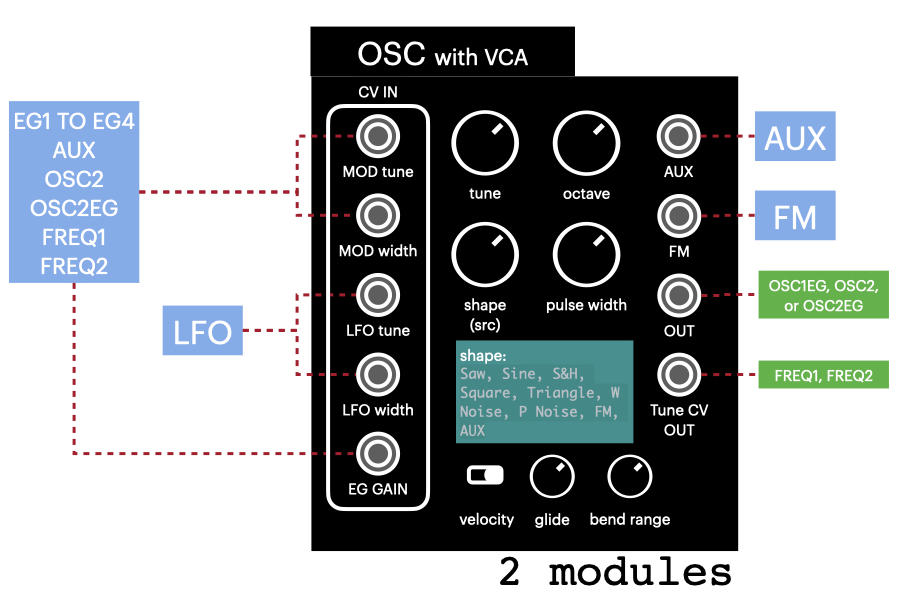
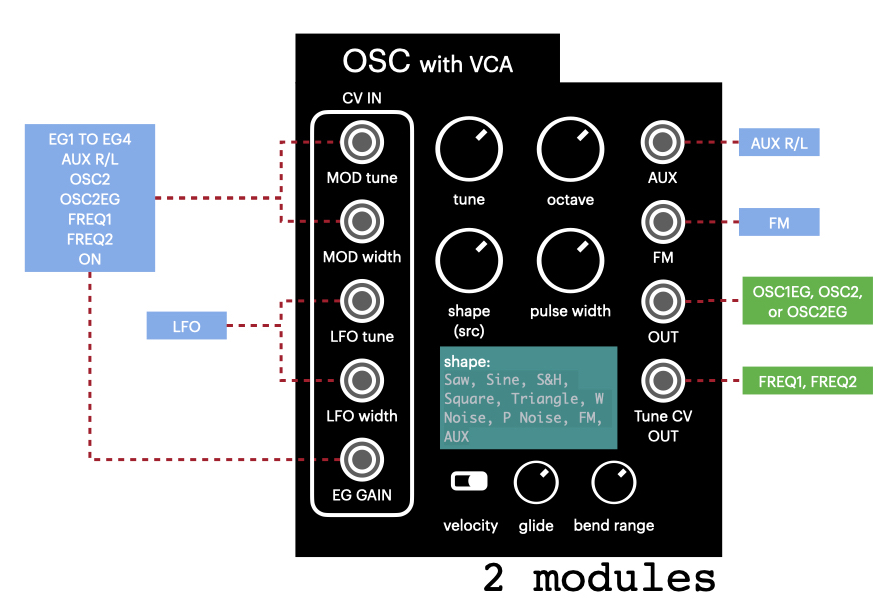
Clipping added

diff --git a/README.md b/README.md
@@ -7,22 +7,27 @@ Qun-synthesizer is an analog modeling synthesizer engine for ESP32 Lyrat, worked
 - Connectivity: Standard MIDI(TRS A type), BLE MIDI, UART MIDI(Supports MAC OS X and Windows through my SerialMIDI https://github.com/raspy135/serialmidi .
 
 * ESP32 Lyrat
-  * Originally designed for smart speaker.
+  * Originally designed for smart speaker. Qun synthesizer uses it to archive affordable pricing.
 
-* Analog Modeling engine
-  * The analog modeling engine is **made from scratch**.
+* **Analog Modeling engine**
+  * The analog modeling engine is **an original, made from scratch**. It uses advanced argorithms for great organic sound. The engine is not a copy of one of classic synths, it is designed to make a modern sound.
+  * It utilizes every single clock of ESP32's CPU power.
+  * Ultra low latency around  < 1ms. (Sound latency. Total latency varies by connecting method.) The low latency can be archived because it does only sound processing, it doesn't need extra buffer for unexpected CPU use like PC.
   * All analog modeling engine parameters can be configured through MIDI. 
-  * 2 Oscillators, it can be used as dual tone. 
-  * **Flexible** MOD (CV) routing. The signal routing is very flexible, close to modular synthesizer experience. You can route signals as normal, or totally radical.
-  * AUX input can be used for external audio signal, or **External CV input**.
+  * Clean 2 Oscillators, it can be used as dual tone. 
+  * The synth can be stacked to archive **Polyphonic** setup. 
+  * **Ultra Flexible MOD (CV) routing**. The signal routing is very flexible, close to modular synthesizer experience. You can route signals as normal, or totally radical.
+  * 1 (2 channels with changing the Lyrat circuit) AUX(R/L) input can be used for external audio signal, or **External CV inputs**
   * 4 Envelove Generators
   * FM (4 Operators x 2)
   * 1 LFO, rate can be controlled by MIDI notes
   * 1 Organic sounding VCF
     * 2/4 Poles, Low-pass, Band-pass, High-pass, Notch)
+    * **Organic Linear and classic Non-linear**
     * Keysync
   * 1 Effect (Delay, Chorus, Flanger)
   * MIDI clock sync
+  * **Advanced 3 Clipping alrorithms** gives an organic clipping sound
 * Player / Sequencer
   * Player (Piano mode)
   * Random mind inspiring 8 step sequencer will generate beats for you
@@ -38,7 +43,7 @@ Qun-synthesizer is an analog modeling synthesizer engine for ESP32 Lyrat, worked
 
 ### CONNECTIONS
 
-* Power : Use good quality USB power supply. Connect the USB cable to `POWER` labeled USB port.
+* Power : Use a good quality USB power supply. Connect the USB cable to `POWER` labeled USB port.
 * BLE MIDI : IOS or Mac OS X are supported. Windows are NOT supported. BLE MIDI has 15 to 20ms latency in general, it's limitation of BLE spec. For lower latency, use MIDI or UART MIDI.
 * MIDI : Use **TRS A** MIDI adapter to connect MIDI cables. TRS A type adapter is the same as KORG, AKAI and MAKE NOISE's adapter.
 * UART MIDI: You can use UART MIDI instead of traditional MIDI interface. Connect Lyrat's `UART` labeled USB to your computer. You may need to install UART driver(https://www.silabs.com/products/development-tools/software/usb-to-uart-bridge-vcp-drivers)
@@ -186,14 +191,14 @@ OSC has many switches to change its behavior.
 ENV Sel
 
 	Selects Envelope(VCA) for the oscillator.
-	`EG1, EG2, EG3, EG4, AUX, OSC2, OSC2EG, FRQ1, FRQ2`
+	`EG1, EG2, EG3, EG4, AUX, OSC2, OSC2EG, FRQ1, FRQ2, ON`
 WIDE TUNE
 
 	When it is ON,you can tune wider range by OSC’s tune parameter.
 MOD SEL
 
 	Select Mod signal source. It is connected to OSC's tune or width.
-	`EG1, EG2, EG3, EG4, AUX, OSC2, OSC2EG, FRQ1, FRQ2`
+	`EG1, EG2, EG3, EG4, AUX, OSC2, OSC2EG, FRQ1, FRQ2, ON`
 
 ENV INV SW
 
@@ -245,7 +250,7 @@ LFO MOD SEL
 	`EG1, EG2, EG3, EG4, AUX, OSC2, OSC2EG, FRQ1, FRQ2`
 
 ### PRM:VCF
-The synth has one filter.
+The synth has one filter. LPF / BPF/ HPF / Notch can be selected. Also it has 4/2 poles switch, and linear and non-linear switch. Linear gives organic resonance, Non-linear gives more character.
 
 ![diagram_vcf](manual_images/diagram_vcf.jpg)
 
@@ -279,19 +284,20 @@ OSC1 BYPASS
 
 VCF KEYSYNC
 
-	When it is not zero, VCF’s cutoff will follow s the playing note.  Higher value is more sensitive.
+	When it is not zero, VCF’s cutoff will follows the playing note.  Higher value is more sensitive.
 	Great with Mono, but not working well with Duo tone because it has only one VCF.
 
 ### PRM:KEY/OTHER
 Configures other parameters.
 
-VCF 4/2 POLE SW
+VCF 4/2 POLE / NoLinear
 
-	Change filter's number of poles. 2 poles(12dB/Oct) when it is ON. 4 poles(24dB/Oct) when it is OFF.
+	Change filter's number of poles, and selects linear or non-linear. 2 Poles is -12db/oct, 4 Poles is -24db/oct. 2 Poles filter gives brighter character. Linear(LI) has less character, but resonances sharp and more organic like real instruments. Non-linear(NL) has more character, has more harmonics, close to other synthesizers. 
+	If you use cutoff envelope, typically Non-linear is suitable.
 
 VCF MOD SEL
 
-	`EG1, EG2, EG3, EG4, AUX, OSC2, OSC2EG, FRQ1, FRQ2`
+	`EG1, EG2, EG3, EG4, AUX, OSC2, OSC2EG, FRQ1, FRQ2, ON`
 
 GLIDE
 
@@ -356,7 +362,7 @@ FM (ABC) FREQ
 
 	Oscillator (ABC)’s frequency (multiple of frequency of D)
 
-PRM:ENV3/4 / Other
+### PRM:ENV3/4 / Other
 
 OSC1 KEYSYNC SW
 
@@ -365,6 +371,10 @@ OSC1 KEYSYNC SW
 OSC2 KEYSYNC SW
 
 	Frequency lock SW for OSC2
+
+Clipping
+
+	Clipping algorithm. "GRAIN", "MID" or "SOFT". The clipping alrorithm will give a good distortion sound, you can even use the synth as multi-effector. See "External Audio processing" for detail.
 
 FM ENV3 CONN
 
@@ -381,6 +391,8 @@ ENV3/4 DECAY
 ENV3/4 SUSTAIN
 
 ENV3/4 RELEASE
+
+## PLAY MODE
 
 ### PLY:PLAY
 Simple playing mode by using 8buttons. Scale will be determined by the scale setting. Useful to check the sound. Probably not useful for live performance. The sequencer is more practical for live performance (Or just use external sequencer / DAW).
@@ -442,6 +454,8 @@ Button 3: Scale. Playing note will be quantized by this scale.
 
 Button 4: Sequencer loop count. Default is 8.
 
+## SETTING MODE
+
 ### SET:LOAD(Bank 1 to 4)
 Load from the saved preset.
 Pressing button 1 to 8 will load preset 1 to 8. It has 4 banks.
@@ -453,7 +467,7 @@ Pressing button 1 to 8 will save to preset 1 to 8. It has 4 banks.
 ### SET:SYSTEM
 System Setting is the setting that is not included in the patch setting. To change the parameter, press the one of 8 buttons and rotate the dial.
 
-AUX:Audio source select. Mic(the board has two onboard microphones) or Line in. To avoid confusion, the setting will not be saved. LINE in is the default.
+AUX:Audio source select. Mic(the board has two onboard microphones) or Line in. To avoid confusion, the setting will not be saved. LINE in is the default. When MIC is selected, turn on "Line in HPF" to eliminate DC. 
 
 Number of devices: Number of devices for poly mode. Set 1 if you don’t have multiple devices. It will be stored in the flash memory.
 
@@ -461,99 +475,166 @@ Device Index : Device Index. Set 1 if you don’t have multiple devices. It will
 
 LINE in THRU: If it is off, it is automatically turn on or off LINE IN pass through by mono / poly setting. If it is on, the synth always passes the signal. This setting will be stored in the flash memory.
 
-LINE in HPF: Off is default. LINE in has external(On the Lyrat board) and internal(In the ES8388 codec chip) high-pass filter. This setting changes internal HPF. Technically you can get DC-coupled LINE in by changing ESP32 Lyrat board. This is useful when you use LINE IN as CV from external modules. See `DC coupling` section for detail.
+LINE in HPF: Off is default. LINE in has two HPFs, one is external, one is internal HPF in the chip. This setting turns internal HPF. Technically you can get DC-coupled LINE in by changing ESP32 Lyrat board. This setting is useful when you use LINE IN as CV from external modules. See `DC coupling` section for detail.
 
-### POLYPHONIC SETUP
+## POLYPHONIC SETUP
 The synth can be used as Mono or Duo tone if you have one device.
 The voice number can be increased up to 8(with Duo mode), by stacking up the synths.
 
-Connection / Configuration:
+(Tested well with two devices, more than 2 devices is experimental)
 
-Polyphonic setup won’t work as standalone.
+### Audio connection
+
+There are two ways for audio setup:
+
+1. Connect Slave's audio out to Master's Line IN. It is recommended for most of cases. It will save audio input to the mixer or audio interface, and Master will process Slave's audio digitally, so it will get a nice soft clipping. That is great for polyphonic (Polyphonic is easier to reach clipping level). It has a little latency by the process, but probably it is not noticable. 
+2. Connect all audio signals to your mixer. Technically there is no latency but it will use more audio inputs.
+
+### Method A. With DAW or MIDI control center and the device will route all imcoming messages to MIDI OUT. 
 
 It assumes you connect the synths to the DAW or MIDI controller that will echo the synth’s MIDI OUT to MIDI IN. Normally it can be done by just turning on recording mode in the DAW.
 Some hardware MIDI keyboard might have the feature.
 Set up MIDI to receive exact same data for all devices. It can be done by any way of MIDI connection, but using UART or classic MIDI will be easier than BLE MIDI.
-If you use UART or classic MIDI, use the 4 pin located above the OLED screen.
+If you use UART or classic MIDI, you can use the 4 pin located above the OLED screen to connect between devices.
 
 Pin connection is showing as below:
+
 ```
+1   2   3   4
 V   T   R   G
 C   X   X   N
 C           D
 ```
 Determine master and slave devices. Slave device can be headless.
-Connect Master’s RX to slave’s RX, Master’s GND to slave’s GND. This will connect MIDI-IN signal between devices. VCC and TX are not used.
-Power both devices. Sometimes ground-loop noise can be happened. This case use separated power supply.
+Connect Master’s RX to slave’s RX, Master’s GND to slave’s GND (pin 3 to 3, pin 4 to 4). This will connect MIDI-IN signal between devices. VCC and TX are not used.
+Sometimes ground-loop noise can be happened. This case use separated power supply.
 Connect MIDI to the master.
 Configure master device (MIDI keyboard or DAW software) to echo all received MIDI signal. Typically it means set the channel to recording mode. All DAW should have the capability.Some MIDI keyboard may not have the setting.
 
-If the set up is correct, you will hear the sound from both devices when you play notes.
-After you confirmed it, connect slave’s output to Master’s line in. Then you don’t need two audio inputs for audio interface.
+### Method B. Standalone setup
 
-Set number of devices and Device index in the System configuration. Device index = 1 is master. This configuration will be stored in the flash memory.
-Configure master’s tone, get your favorite sound.
-If you use Mono mode, set MONO/DUO/POLY config to “PolyMono” mode. Then you will get two voices if the number of device is two.
-If you use Duo mode, set MONO/DUO/POLY config to “PolyDuo” mode. Then you will get four voices if the number of device is two.
-At the point the parameters are not synchronized state, only master is configured properly. To synchronize all parameters, press “Rec” button to dump all parameters. It will be sent to slave devices.
-You can play notes.
-Often time you may forget to set the channel to recording mode on DAW, then parameter will be out of sync state. Pressing “Rec” button will sync the parameters.
+Connect Master's MIDI out to Slave's MIDI IN. Or Master's TX to Slave's RX (Master's pin 2 to Slave's pin3, pin4 to pin4.
+Turn on MIDI Forwarding in System menu. All received MIDI signal will be forwarded to Slave device. This is more stable than DAW setup since it's not relying on DAW's MIDI routing, but you will lose MIDI out function to DAW.
+Please make sure you turn off MIDI forwarding when you connect MIDI OUT to DAW next time. MIDI forwarding setting will cause MIDI message flood.
+
+Also because it is forwarding MIDI signal, it has a bit of latency.
+
+### Preset setup for Polyphonic
+
+Minimum setup to archive PolyMono (2 Oscillators per voice) will be the following with 2 devices setup:
+
+1. In System menu , "Num of devices" should be 2 for all devices. Set Dev Index=1 for Master device, 2 for Slave device.
+2. Iniaialize a preset (4 second press of Rec button) on Master device.
+3. Make sure it can play initial SAW wave sound.
+4. Go Key / Other submenu and set MonoDuoPolyMode to "PolyMono"
+5. Press "Rec" button on Master device. It will dump all preset commands. After the dump, all preset state should be in sync between devices.
+6. Play multiple notes. You should hear two voices.
+
+Minimum setup to archive PolyDuo (1 Oscillator per voice) will be the following with 2 devices setup:
+
+1. In System menu , "Num of devices" should be 2 for all devices. Set Dev Index=1 for Master device, 2 for Slave device.
+2. Iniaialize a preset (4 second press of Rec button) on Master device.
+3. Make sure it can play initial SAW wave sound.
+4. Set "MIX" parameter in Mix menu to 64. It should mix Osc1 and Osc2.
+5. Set "OSC Env SEL" to use EG2.
+6. Go Key / Other submenu and set MonoDuoPolyMode to "PolyDuo"
+7. Press "Rec" button on Master device. It will dump all preset commands. After the dump, all preset state should be in sync between devices.
+8. Play multiple notes. You should hear four voices.
+
+### Polyphonic tips
+
+Two devices becomes out of synchronized easily.
+To synchronize all parameters one more time, press “Rec” button to dump all parameters. It will be sent to slave devices. 
+
+If it start making ground loop noise, use separated power supply.
 
 
+## TIPS/TROUBLESHOOT
 
-### TIPS/TROUBLESHOOT
-
+* Unknown MIDI messages sent with device reset?
+  * When booting some noise is sent (It's ESP32's boot message) . Please avoid to receive MIDI signals when you reset the device. Use initializing preset (4 seconds press of REC button), instead of hardware reset.
 * Trouble with Duo Mode: You need to set up properly to play duo mode properly.
-	Mix (set to center)
+	* Mix in Mix sub menu has to be center (64).
 	* Associated Envelope (OSC1 -> EG1 or 3, OSC2 -> EG2 or 4. Normally OSC1 uses EG1, OSC2 uses EG2)
-	* Set OSCs setting identical to get the same tone.
+	* Set OSCs setting identical to get the same tone. Associated Envelopes parameters also need to be identical. (e.g. EG1 and EG2 setting should be identical)
 	* VCF’s Keysync will not work well.
 	* I suggest to start with simple patch.
+	  	1. Initialize a patch (Long pressing (4 sec) Rec button)
+   	2. Set Mix to 64 (in Mix submenu)
+	   	3. Set OSC2 Env Sel to EG2 (in OSC Switches)
+	   	4. Set Mono/Duo/Poly mode to "Duo"
+	   	5. Now you should be able to play up to 2 voices.
 	
 * Suddenly NO SOUND!
-	* Reset the device by pressing RST button if you are OK with it.
 	* Reset the preset. Long pressing (4 seconds) of REC button will initialize the preset.
 	* Probably it’s because of last parameter you changed, or some unexpected MIDI cc signal. See the 2nd line of the display, it indicates the parameter received at last.
 	* Level overflow may cause the silent (e.g. Giving massive delay feedback).
-	* Maybe it’s not worth to spend time to figure out why, reset the device.
+	* Maybe it’s not worth to spend time to figure out why, reset the preset.
 	* Save your preset on DAW by pressing REC button to dump MIDI data. It’s a series of CC changes. Then you don’t loose the preset.
-
+	
 * BLE trouble with Windows: We don’t support WINDOWS for BLE MIDI connection. Please use UART MIDI or MIDI TRS A.
 
 * A Noise when you connect multiple devices (chained audio)
+	
 	* Probably it is because of ground loop. Use separated power supply. 
-
+	
 * I hear the noise but I don’t connect anything to line in.
 	* Toggle MIC/LINE select (in Prm:System), set to Line in.
 	* Toggle Line THRU to off.
+	* Initialize a preset.
 	* Check Mono/Poly Mode setting. If it’s poly mode, LINE IN pass through is ON.
-	* Use different power supply. Basically it’s less noise by using separated charger.
-
+* Use different power supply. Basically it’s less noise by using separated charger.
+	
 * Use hardware effectors to get better result. That’s one of the benefit using hardware synth.
 
-* Don’t be afraid to get clipped. Clipping could be the entrance to the new sound.
+* Don’t be afraid to get clipped! The synth has a great clipping algorithms. Clipping could be the entrance to the new sound.
 
 * I want to use AUX as CV IN
 	* CV signal from modular synthesizers may have **HIGH VOLTAGE**! Please attenuate the voltage to normal LINE level (1 to 1.5V).
+	
 	* AUX is connected to a lot of modules for CV control, so you can use AUX to control tune/width/LFO and others. However, the LINE in has capacitor in the path, it means the signal is AC. Using it as LFO should work, probably down to 2 to 5Hz. But DC signal (e.g. hold the same voltage 5 seconds) might not work.
+	
 	* If you have advanced soldering skill or SMD rework station, you can get DC coupled LINE IN. Please read the following DC Coupling section.
+	
+* MIDI is flooding when I connect MIDI out.
+	* Probably MIDI forwarding is ON.
 
-### DC Coupling (ADVANCED : HIGH RISK of BREAKING BOARD)
+## External Audio processing
+
+You can use LINE IN signal for various purposes.
+
+* As CV input to control synth parameters
+* As audio signal. VCF / effector / Clipping will be applied.
+
+If you want to use LINE IN signal as an audio signal, then set Oscillator(1/2)'s signal as "AUXR" or "AUXL", and set the ENV SEL as "ON" (in OSC Switches). Set the gain by changing "VCF Volume" and "AUX In Gain" in Mix submenu. 
+
+The synth's clipping algorithm can be used as guitar distortion and it is really good. However the interfaces are not designed for guitar, so you need the following things:
+
+* LINE IN's input impedance is low, it cannot take guitar signal directly. Insert buffer amp to get proper sound.
+* LINE IN is stereo input. Use a proper cable to convert the signal path.
+
+
+
+## DC Coupling LINE IN (ADVANCED : HIGH RISK of BREAKING BOARD)
 ESP32 Lyrat board has capacitors in LINE IN signal path to cut DC.
 https://dl.espressif.com/dl/schematics/esp32-lyrat-v4.3-schematic.pdf
-Technically you can get DC-coupled input by removing and shorting C61 and C63.
+Technically you can get DC-coupled input by removing C61, C62, C63 and shorting C61 and C63 (**Do not short C62**).
 ![dc_coupling](manual_images/dc_coupling.jpg)
 
 They are extremely small chips so put extra caution not to break the board.
 
-It is OK to short even between channels, the signal will be downmixed. Using hot air for SMD reworking is recommended.
+If it is hard to short C61 and C63 individually, It is OK to short even between channels, the signal will be downmixed in this case. If you want 2 CV channels, you need to short them individually. Using hot air for SMD reworking is recommended.
 
 Even after the modification, still you can enable internal HPF in the ES8388 code chip. You can configure this in the system menu.
 
 
 
-
 ### Supported MIDI Control numbers
+
+Basically all tone-related parameters can be controlled by MIDI CC signal.
+
+Therefore a set of MIDI CC signal can be used as preset save data.
+
 ```
                             "Save Preset", //0x0
                             "Mod Wheel", //1
@@ -599,7 +680,7 @@ Even after the modification, still you can enable internal HPF in the ES8388 cod
                             "Efct Speed", //7
                             "VCF Type", //8
                             "Efct Depth", //9
-                            "", //a
+                            "Clipping", //a
                             "", //b
                             "Efct Type", //c
                             "VCF OSC1 bypass SW", //d
